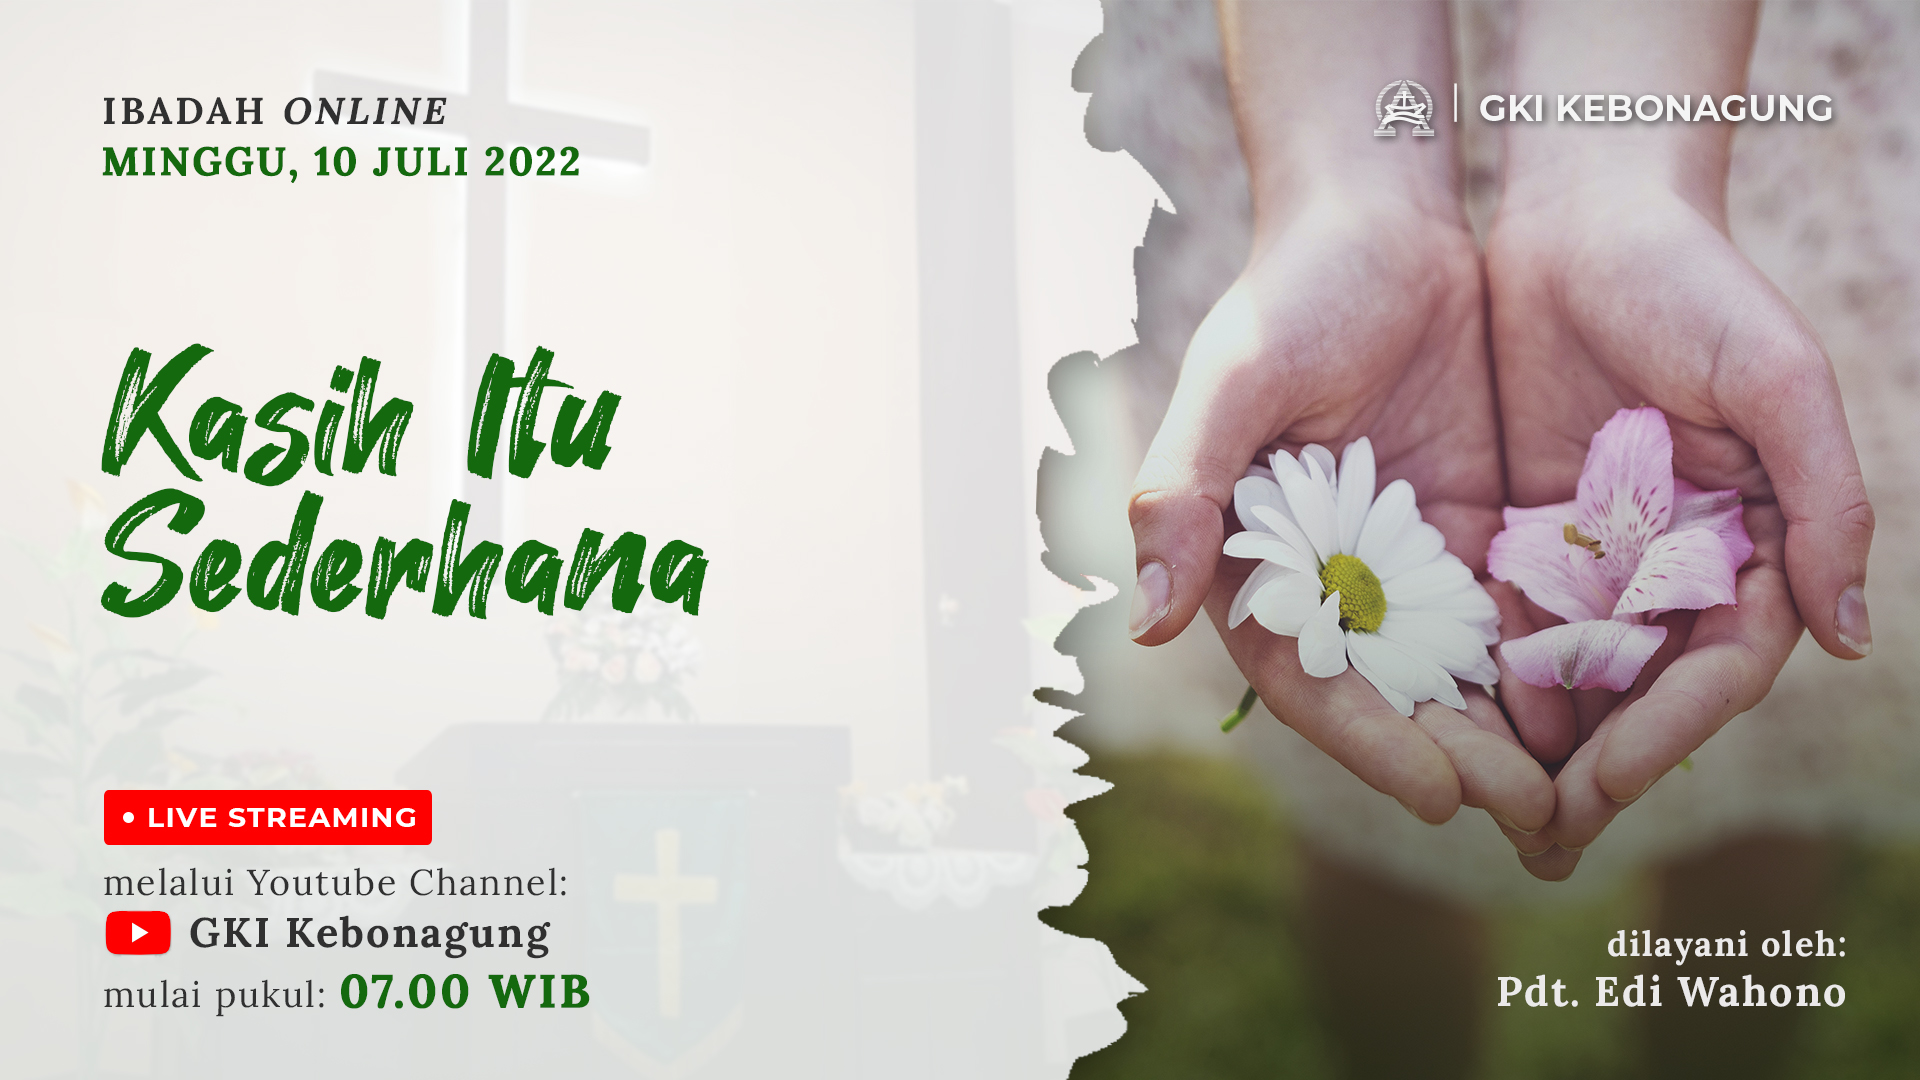
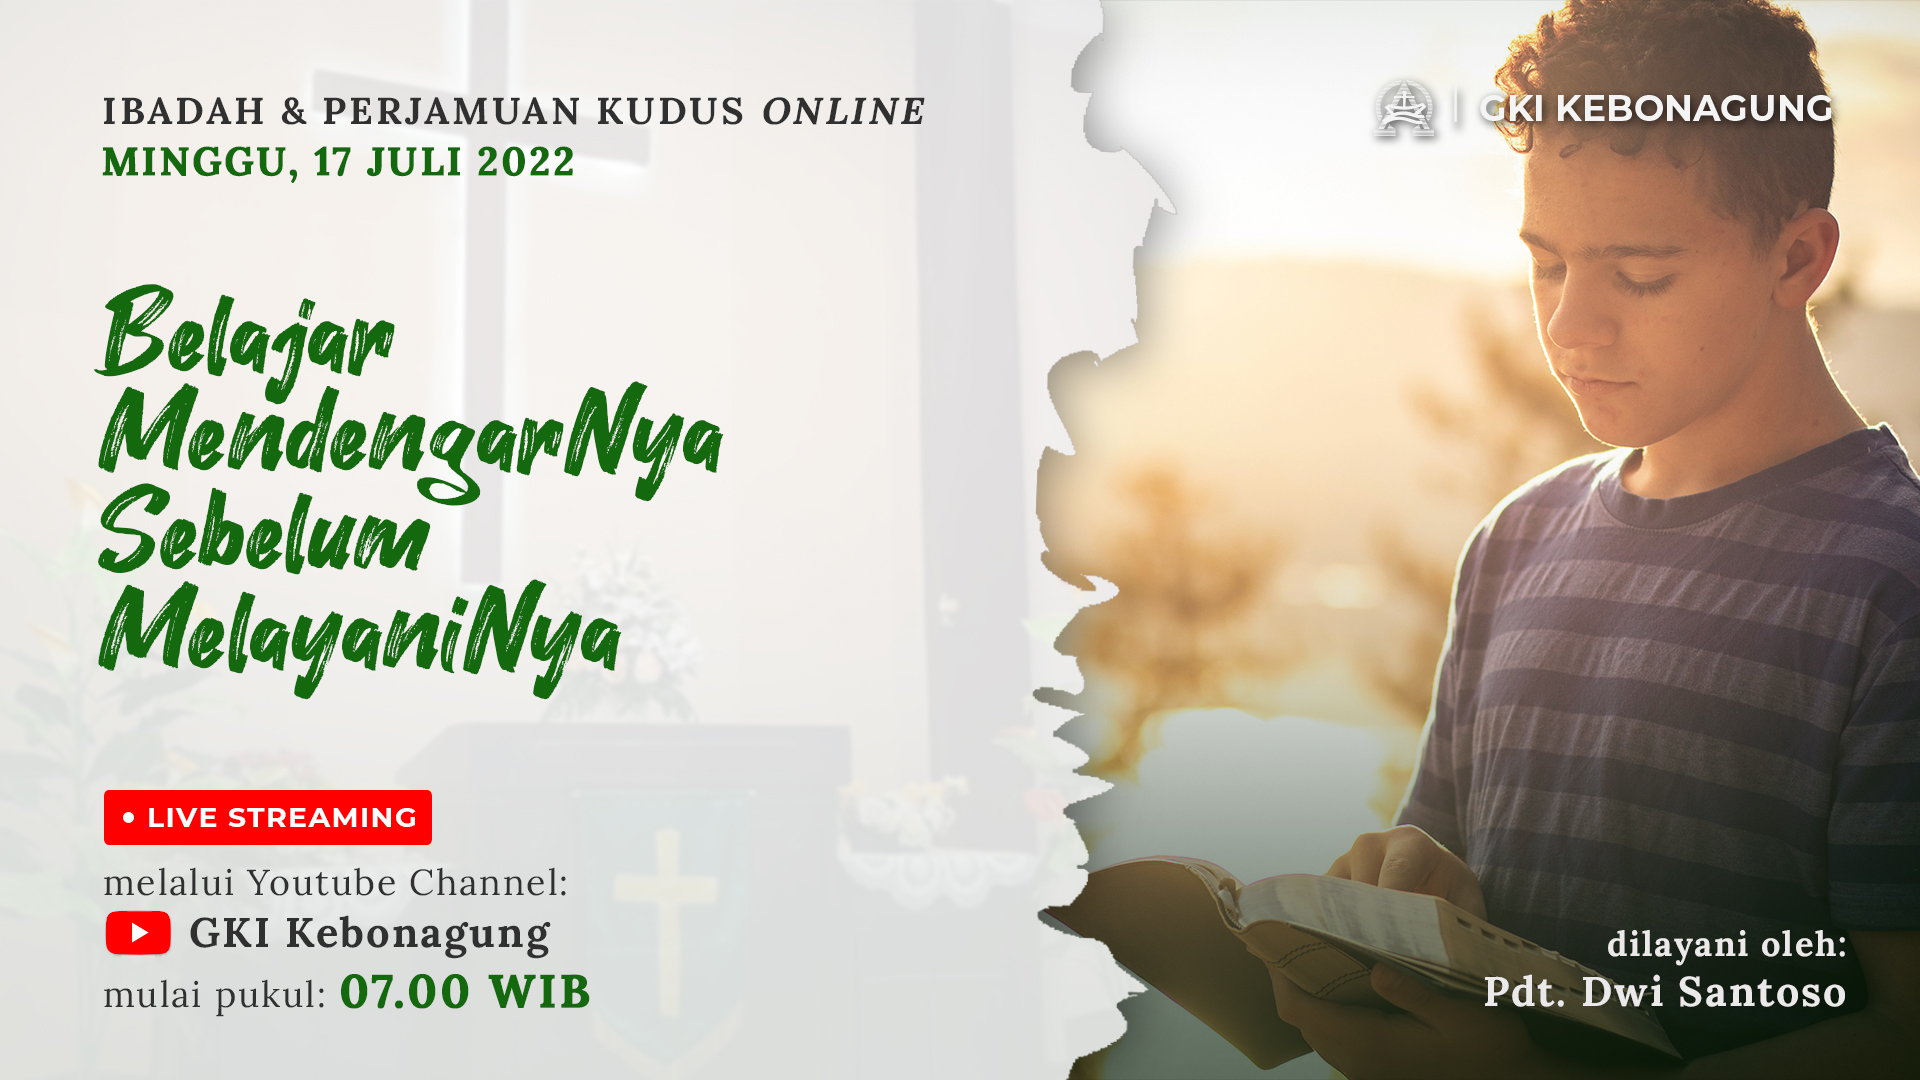
1

diff --git a/application/views/Front/vLandingpage.php b/application/views/Front/vLandingpage.php
@@ -114,18 +114,18 @@
                     <div class="mt-5">
                         <div class="card text-center shadow mx-3">
                             <!-- UBAH -->
-                            <a href="https://youtu.be/1wQ8jPhRc1s" target="_blank" class="text-decoration-none">
+                            <a href="https://youtu.be/9CbgTjsmB6k" target="_blank" class="text-decoration-none">
                                 <img src="<?= base_url() ?>front/assets/img/umum.jpg" class="card-img-top">
                             </a>
                             <div class="card-body">
                                 <h4 class="card-title">Ibadah Umum</h4>
                                 <!-- UBAH -->
-                                <p class="card-text">"Kasih itu Sederhana"<br>Minggu, 10 Juli 2022 - 07.00 WIB<br>Pdt. Edi Wahono</p>
+                                <p class="card-text">"Belajar Mendengar-Nya Sebelum Melayani-Nya"<br>Minggu, 17 Juli 2022 - 07.00 WIB<br>Pdt. Dwi Santoso<br>(Disertai dengan Perjamuan Kudus)</p>
                             </div>
                             <div class="card-body">
                                 <!-- UBAH -->
                                 <a href="<?= base_url() ?>Fronts/pilihOnsite" class="btn btn-primary mb-2 px-5 mx-1" style="border-radius: 10rem; font-size: 11pt">Onsite</a>
-                                <a href="https://youtu.be/1wQ8jPhRc1s" target="_blank" class="btn btn-primary mb-2 px-5 mx-1" style="border-radius: 10rem; font-size: 11pt">Online</a>
+                                <a href="https://youtu.be/9CbgTjsmB6k" target="_blank" class="btn btn-primary mb-2 px-5 mx-1" style="border-radius: 10rem; font-size: 11pt">Online</a>
                             </div>
                         </div>
                     </div>
